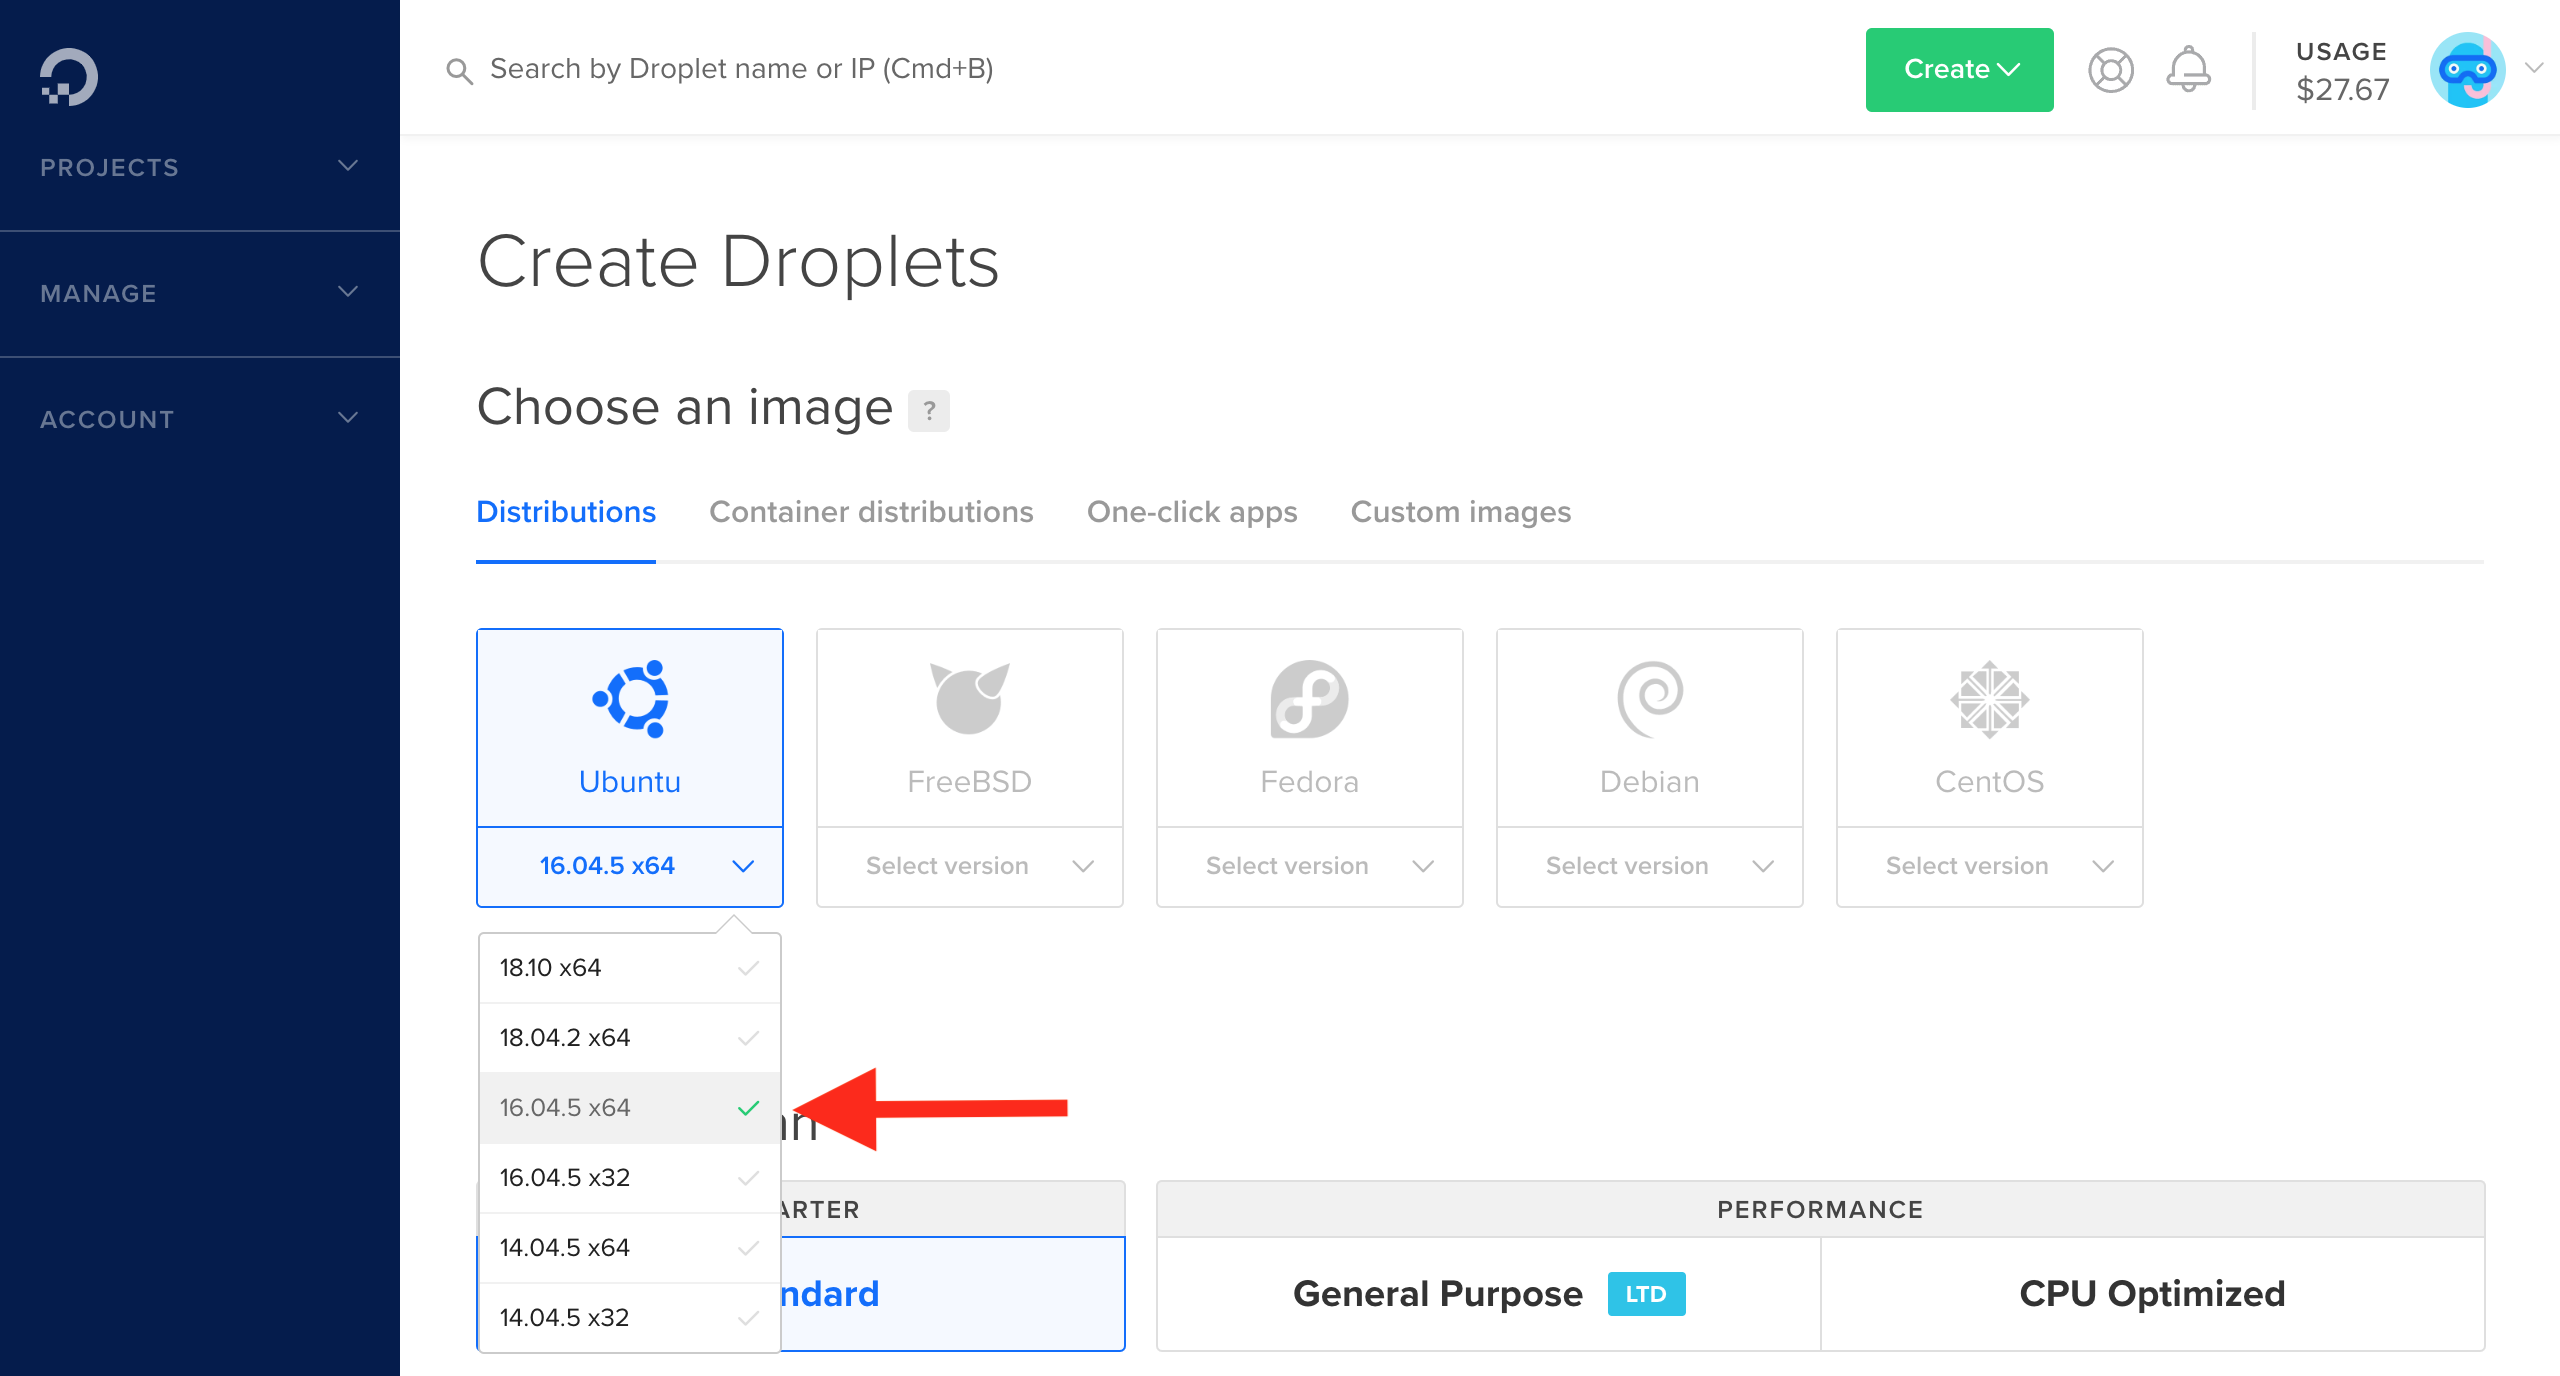
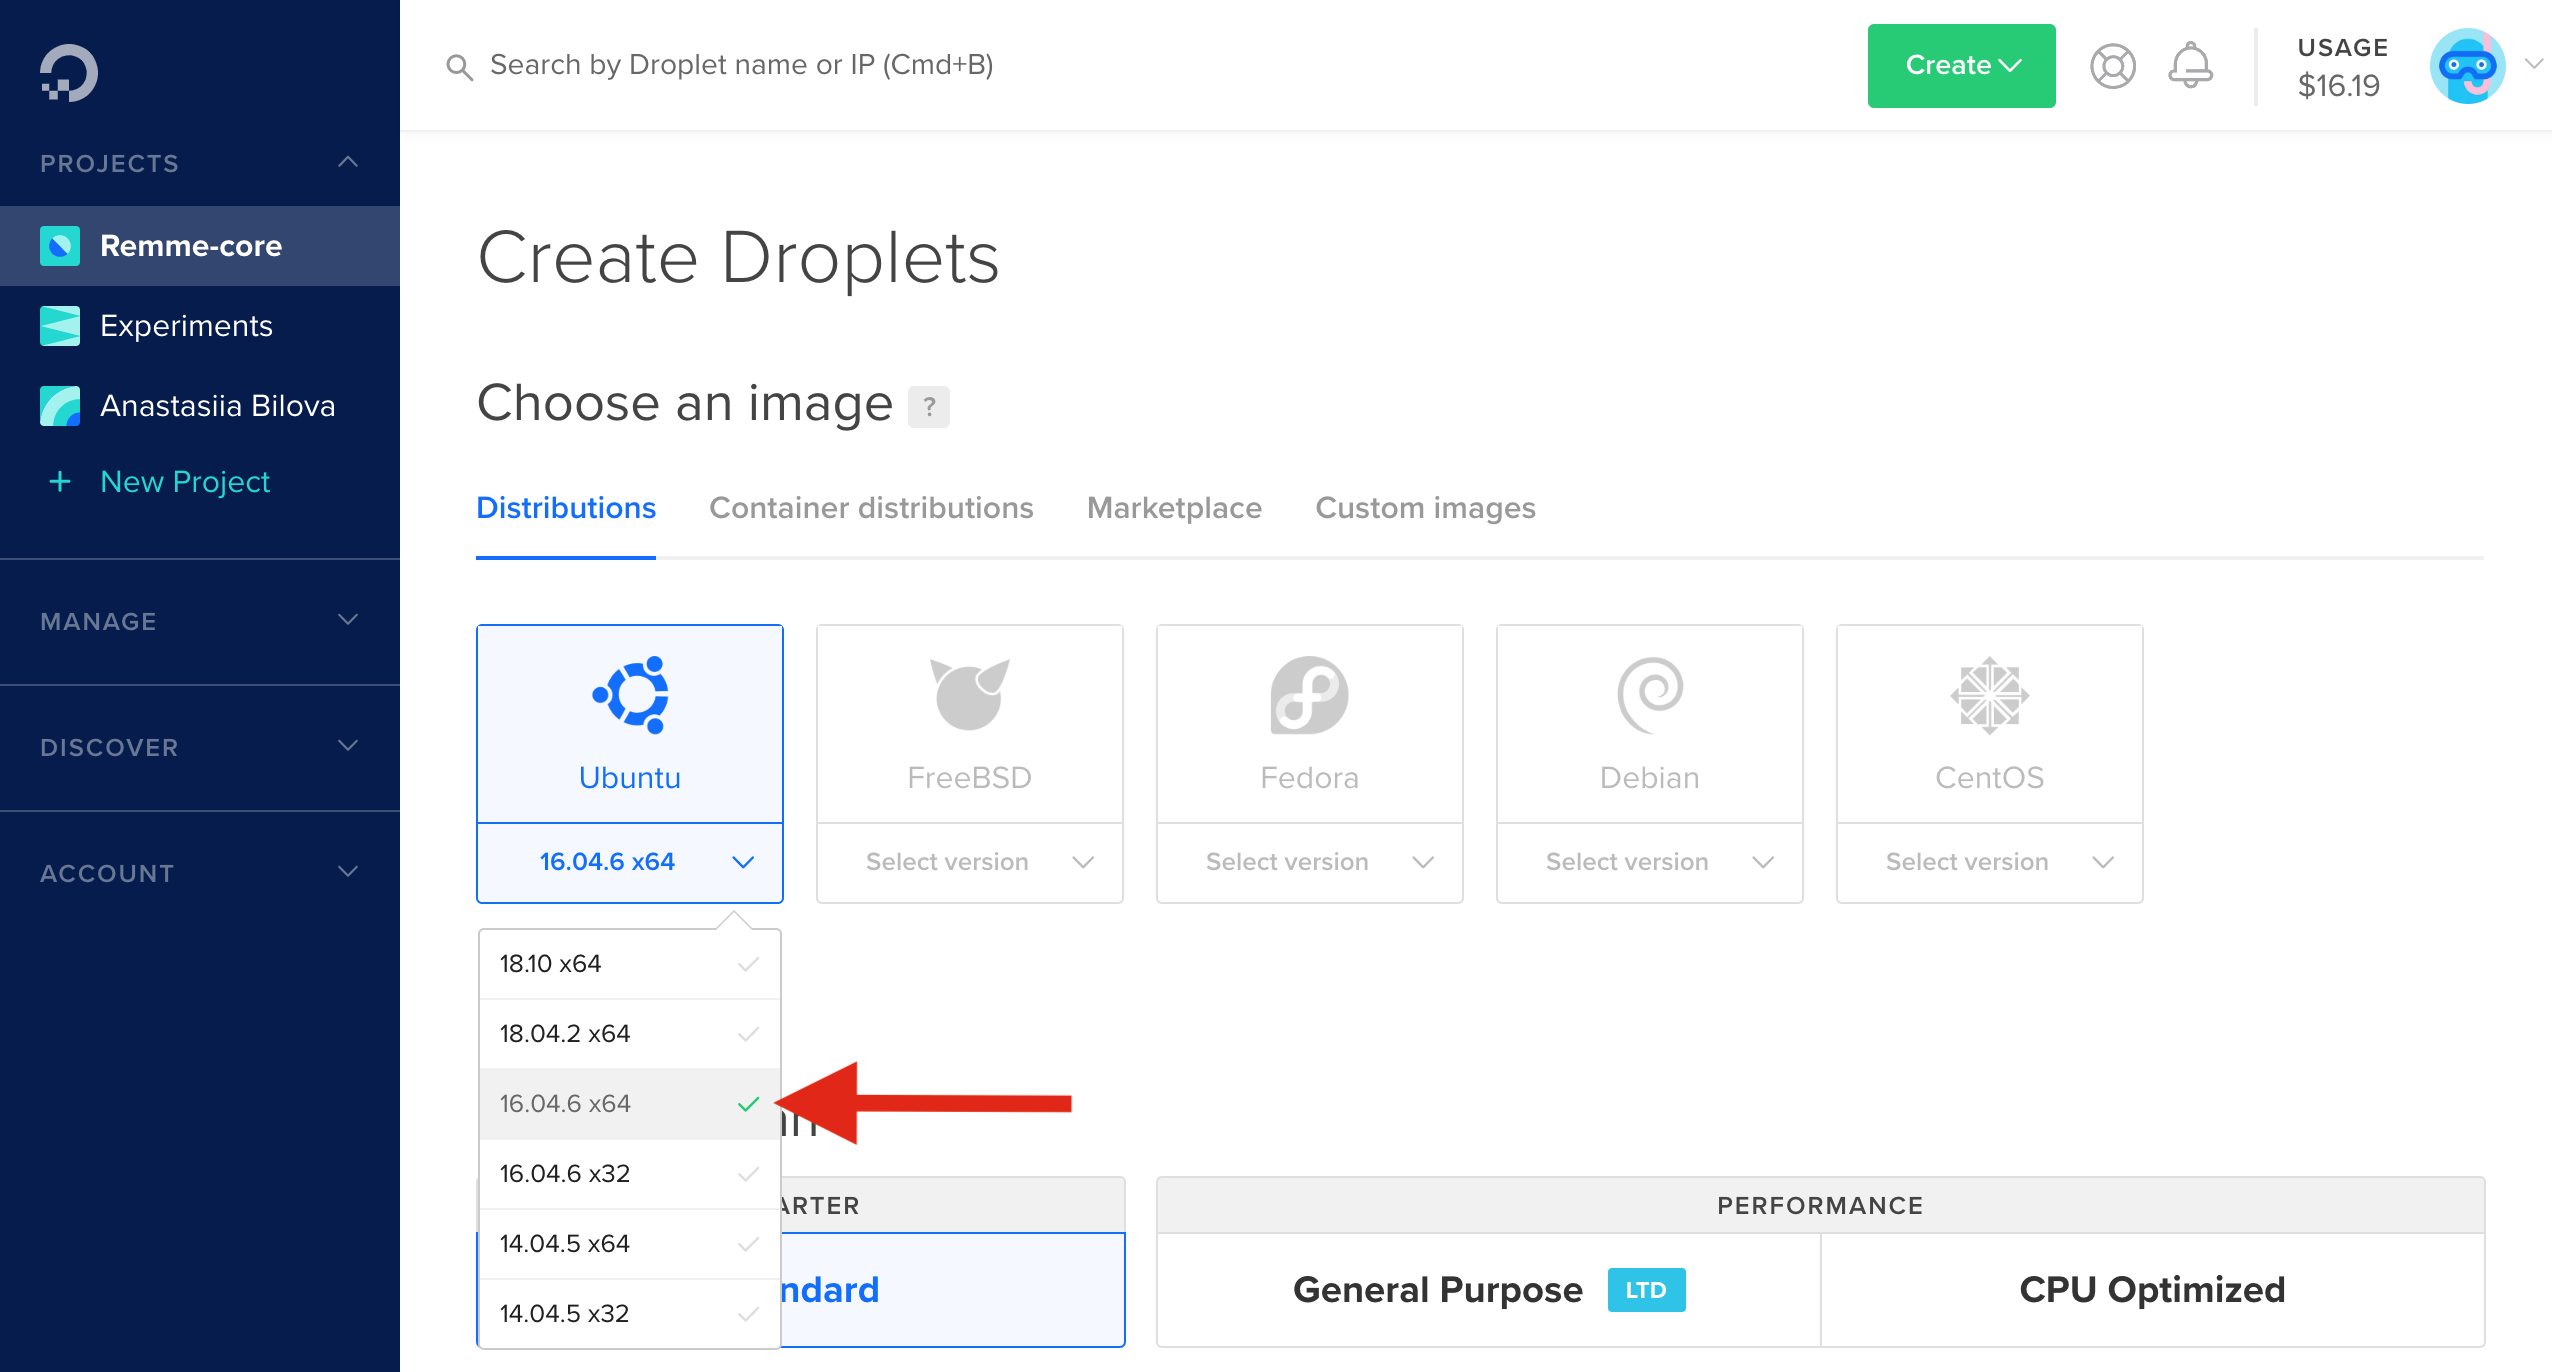
Create server rebuild section

diff --git a/docs/user-guide/troubleshooting.rst b/docs/user-guide/troubleshooting.rst
@@ -414,3 +414,89 @@ Find the ``OpenSSH client`` and click on the button named ``Install``.
    :alt: No SSH client on Windows
 
 When the installation has been finished, try to connect to the server again.
+
+Rebuild server
+==============
+
+Rebuilding a server allows you to keep the operational system (image), ``SSH keys`` and ``IP-address``. The rest everything
+such as folders with node source code will be gone. So you don't need to create a server from scratch, just rebuild it.
+When you will connect to the rebuilt server first time, you get a ``SSH key`` warning.
+
+To avoid it, use the following terminal command on ``Ubuntu & Mac OS``:
+
+.. code-block:: console
+
+   $ rm ~/.ssh/known_hosts
+
+On ``Windows`` use the following one:
+
+.. code-block:: console
+
+   $ del %userprofile%\.ssh\known_hosts
+
+Amazon Web Services
+~~~~~~~~~~~~~~~~~~~
+
+On the ``AWS`` is no way to rebuild your instance when you already created it. But you can create an image from the instance
+you have created for the future rebuilds. Consider image as a clone of the instance on a particular stage (before node
+installation, after node installation, etc.).
+
+Create a brand new instance using the following reference — :ref:`LaunchAWSInstance`. Follow the guides on how to create
+and apply a snapshot of the instance — :ref:`CreateAWSSnapshot`, :ref:`ApplyAWSSnapshot`. But instead of making a snapshot
+of the instance with the installed node, make a snapshot of the newly created instance. So you will have the image of
+the clear instance.
+
+Digital Ocean
+~~~~~~~~~~~~~
+
+Open the page that shows all your droplets. Find out the droplet that hosts your node (it could be named ``remme-core-testnet-node``).
+Press the burger menu icon and choose the ``Destroy`` option.
+
+.. image:: /img/user-guide/troubleshooting/rebuild-server/digital-ocean/destroy-droplet-button.png
+   :width: 100%
+   :align: center
+   :alt: Destroy a droplet button
+
+After, go bottom of the page to the ``Rebuild Droplet`` section. Choose image ``Ubuntu 16.04.6 x64``.
+
+.. image:: /img/user-guide/troubleshooting/rebuild-server/digital-ocean/choose-image.png
+   :width: 100%
+   :align: center
+   :alt: Choose an image for the droplet
+
+Press ``Rebuild`` button.
+
+.. image:: /img/user-guide/troubleshooting/rebuild-server/digital-ocean/rebuild-button.png
+   :width: 100%
+   :align: center
+   :alt: Rebuild a droplet
+
+After pressing a rebuild button you will get the pop-up to confirm the rebuild.
+
+.. image:: /img/user-guide/troubleshooting/rebuild-server/digital-ocean/confirm-rebuild-droplet.png
+   :width: 100%
+   :align: center
+   :alt: Confirm rebuild a droplet
+
+Now you can start from :ref:`LoginToTheDigitalOceanDroplet`.
+
+Vultr
+~~~~~
+
+Open the page that shows all your server. Find out the server that hosts your node (it could be named ``remme-core-testnet-node``).
+Press the burger menu icon and choose the ``Server Reinstall`` option.
+
+.. image:: /img/user-guide/troubleshooting/rebuild-server/vultr/reinstall-server-button.png
+   :width: 100%
+   :align: center
+   :alt: Destroy a server button
+
+After, you will get the pop-up to confirm the reinstallation. Check the checkbox ``Yes, reinstall this server`` and press
+``Reinstall Server``.
+
+.. image:: /img/user-guide/troubleshooting/rebuild-server/vultr/confirm-reinstall-server.png
+   :width: 100%
+   :align: center
+   :alt: Confirm reinstall a server
+
+Now you can start from :ref:`LoginToTheVultrServer`.

diff --git a/docs/user-guide/cloud/digital-ocean.rst b/docs/user-guide/cloud/digital-ocean.rst
@@ -76,7 +76,7 @@ Create it with green button at the right-top corner of the screen.
    :align: center
    :alt: Create droplet
 
-Specify image ``Ubuntu 16.04.5 x64``, which should be regarded as an operating system.
+Specify image ``Ubuntu 16.04.6 x64``, which should be regarded as an operating system.
 
 .. image:: /img/user-guide/cloud/digital-ocean/droplet-image.png
    :width: 100%
@@ -125,6 +125,8 @@ Wait for your droplet to be ready as illustrated in the image below.
    :width: 100%
    :align: center
    :alt: Droplet is ready
+
+.. _LoginToTheDigitalOceanDroplet:
 
 Step 4: login to droplet
 ========================

diff --git a/docs/user-guide/advanced-guide/snapshots.rst b/docs/user-guide/advanced-guide/snapshots.rst
@@ -8,6 +8,8 @@ providers (:doc:`/user-guide/cloud`).
 Amazon Web Services
 -------------------
 
+.. _CreateAWSSnapshot:
+
 Create a snapshot
 ~~~~~~~~~~~~~~~~~
 
@@ -65,6 +67,8 @@ enter ``snapshot id`` to the corresponding field. Create a tag named ``Name`` wi
    :width: 100%
    :align: center
    :alt:
+
+.. _ApplyAWSSnapshot:
 
 Apply a snapshot
 ~~~~~~~~~~~~~~~~

diff --git a/docs/user-guide/cloud/vultr.rst b/docs/user-guide/cloud/vultr.rst
@@ -83,6 +83,8 @@ Wait for your server to be ready as illustrated on the image below.
    :align: center
    :alt: Server is ready
 
+.. _LoginToTheVultrServer:
+
 Step 3: login to server
 =======================
 Open a terminal on your PC. Visit the :doc:`/user-guide/troubleshooting` section to find instructions how to do this.

diff --git a/docs/user-guide/cloud/aws.rst b/docs/user-guide/cloud/aws.rst
@@ -52,6 +52,8 @@ You will then be redirected to ``AWS management console``. Press ``Launch a virt
    :align: center
    :alt: Choose account plan
 
+.. _LaunchAWSInstance:
+
 Step 2: launch instance
 =======================
 
